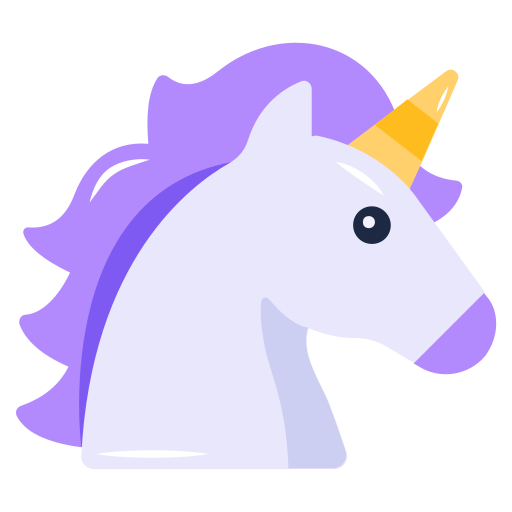
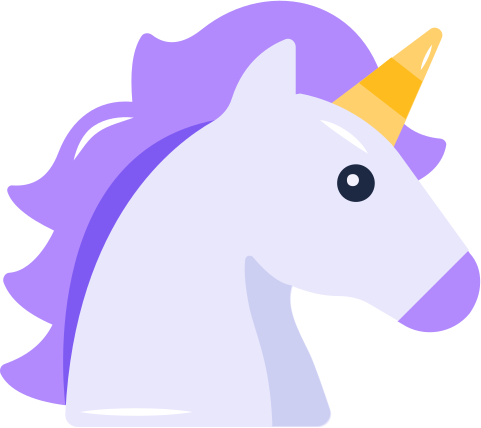
Web: unicorn as tall as the capitals, on the text baseline
Trims the PNG to its visible pixels (481x428) and sizes it to the Space
Grotesk cap height (0.7em), baseline-aligned, so its bottom lines up with
the bottom of "EU". Measured: bottom on the baseline, top within 1px of
the cap line.

Claude-Session: https://claude.ai/code/session_011DD8gsMMSvFE7u7kecXWUK

diff --git a/web/src/components/Wordmark.tsx b/web/src/components/Wordmark.tsx
@@ -1,9 +1,13 @@
-/** The EUnicorn mascot next to the name, "EU" in the primary color. Size follows the font size. */
+/**
+ * The EUnicorn mascot next to the name, "EU" in the primary color. The mascot is exactly as tall
+ * as the capitals (Space Grotesk cap height = 0.7em) and sits on the text baseline, so its bottom
+ * lines up with the bottom of "EU". The PNG is trimmed to its visible pixels for this.
+ */
 export function Wordmark({ className = "" }: { className?: string }) {
   return (
-    <span className={`inline-flex items-center gap-[0.25em] ${className}`}>
+    <span className={`inline-flex items-baseline gap-[0.22em] ${className}`}>
       {/* eslint-disable-next-line @next/next/no-img-element */}
-      <img src="/brand/unicorn.png" alt="" className="h-[1.6em] w-[1.6em] shrink-0" />
+      <img src="/brand/unicorn.png" alt="" width={481} height={428} className="h-[0.7em] w-auto shrink-0" />
       <span>
         <span className="text-primary">EU</span>nicorn
       </span>

diff --git a/web/STYLE.md b/web/STYLE.md
@@ -4,7 +4,7 @@ How EUnicorn looks, sounds and moves. Decisions come from [DESIGN-RESEARCH.md](D
 Tokens live in [`src/app/globals.css`](src/app/globals.css); use them via Tailwind classes, never hard-coded hex values.
 
 ## Brand
-- **Name:** EUnicorn, written with "EU" in the primary color (`<span className="text-primary">EU</span>nicorn`). Next to it the unicorn mascot (`public/brand/unicorn.png`, 512 px, transparent; also the favicon as `app/icon.png`) via `Wordmark`. Never recolour or crop it.
+- **Name:** EUnicorn, written with "EU" in the primary color (`<span className="text-primary">EU</span>nicorn`). Next to it the unicorn mascot (`public/brand/unicorn.png`, trimmed to its visible pixels, transparent; the favicon is the untrimmed `app/icon.png`) via `Wordmark`: as tall as the capitals and on the baseline. Never recolour it.
 - **Line:** "Go build in Europe." It closes every "Built in Europe" card.
 
 ## Color
